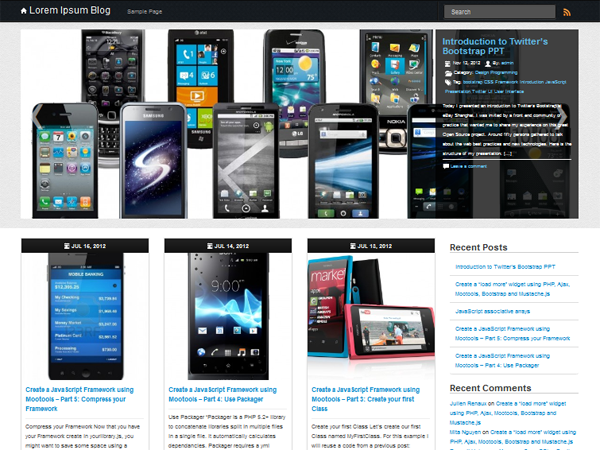
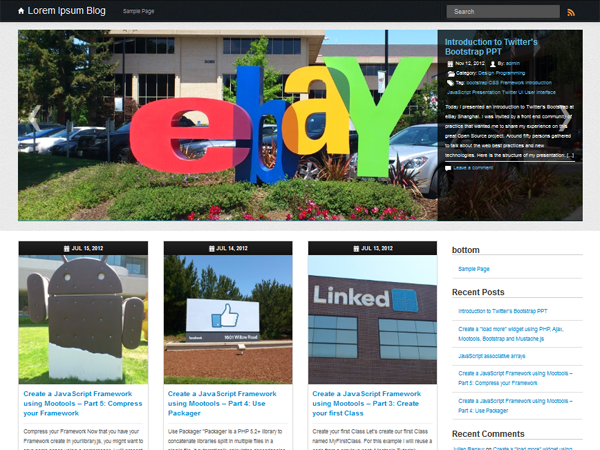
Change screenshot + add affix class for static navbar

diff --git a/style.css b/style.css
@@ -73,6 +73,10 @@ header .navbar a.brand:hover {
 	padding: 20px;
 }
 */
+.affix {
+	top: 60px;
+}
+
 .alignleft {
 	float: left;
 }
@@ -288,25 +292,22 @@ header .navbar a.brand:hover {
 	border-radius: 10px;
 }
 
-#comments{
+#comments {
 	padding-top: 40px;
 }
-#comments .comment,
-#comments .trackback,
-#comments .pingback {
+
+#comments .comment,#comments .trackback,#comments .pingback {
 	padding: 50px;
 }
 
-.comment.thread-odd.depth-1,
-.trackback.thread-odd.depth-1,
-.pingback.thread-odd.depth-1 {
+.comment.thread-odd.depth-1,.trackback.thread-odd.depth-1,.pingback.thread-odd.depth-1
+	{
 	background-color: #f9f9f9;
 	margin-top: 0px;
 }
 
-.comment.thread-even.depth-1,
-.trackback.thread-even.depth-1,
-.pingback.thread-even.depth-1 {
+.comment.thread-even.depth-1,.trackback.thread-even.depth-1,.pingback.thread-even.depth-1
+	{
 	background-color: #FFFFFF;
 	margin-top: 0px;
 }
